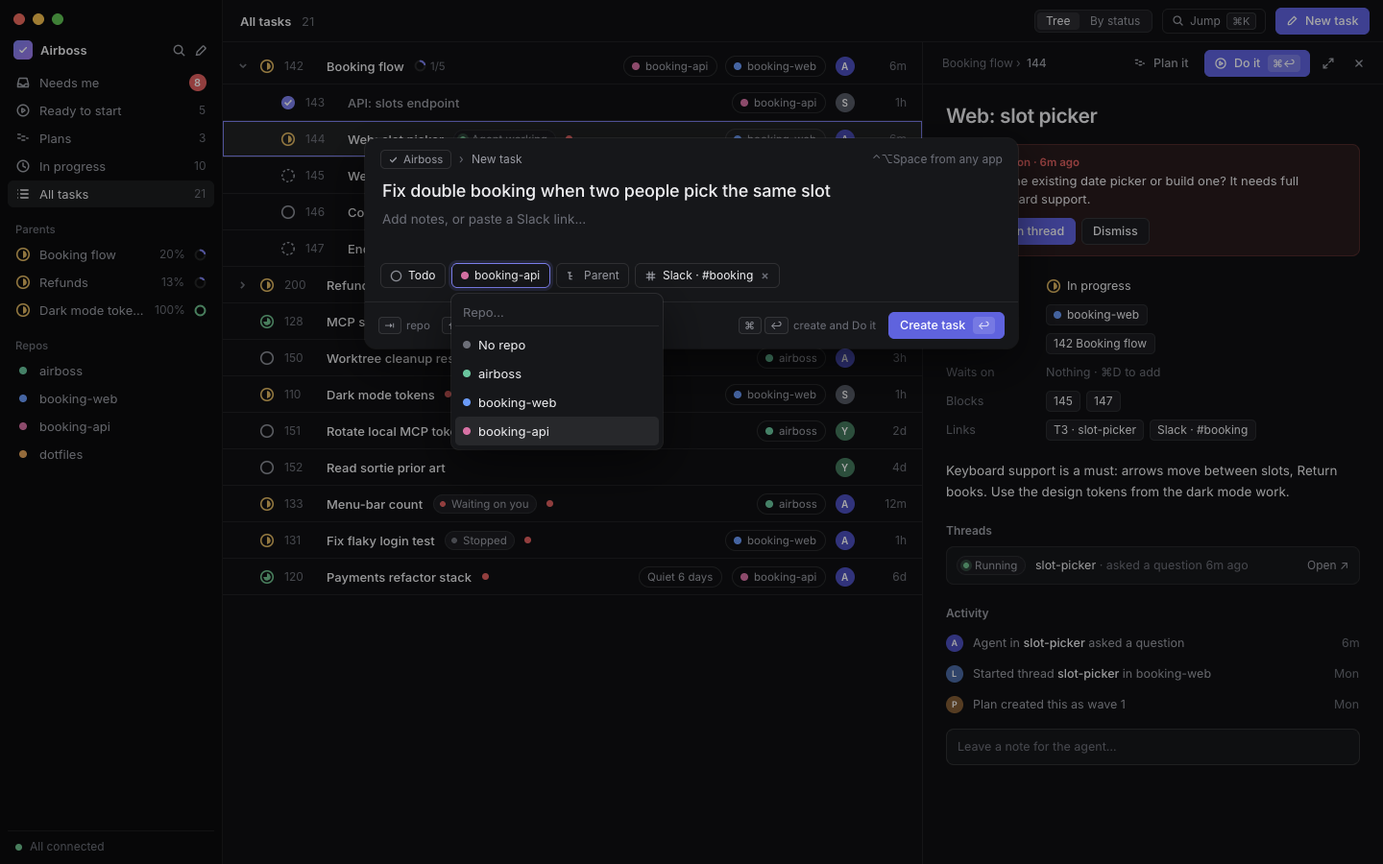
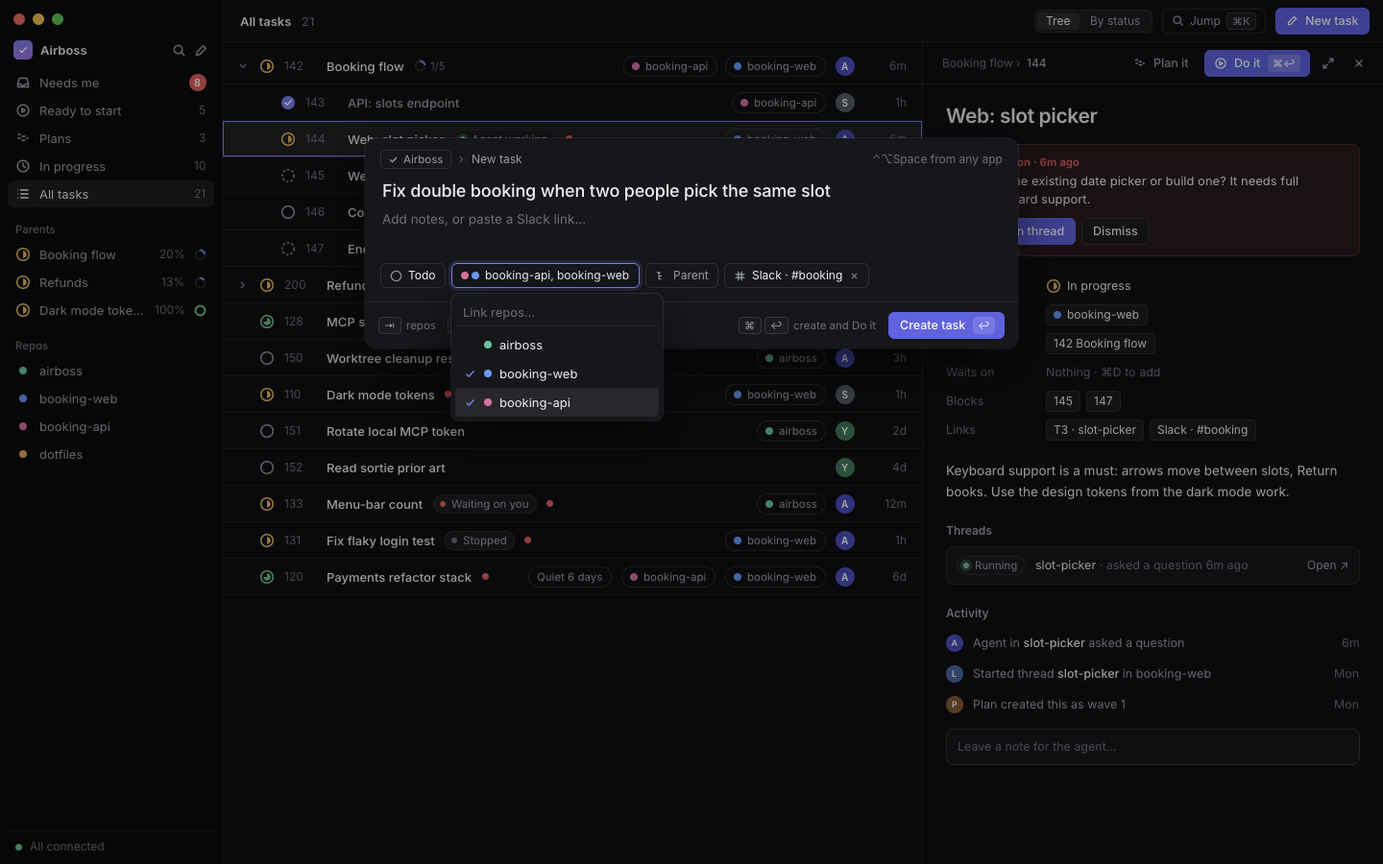
Let a task link to several repos
- Repos are a list per task, usually known up front; parents show the
  union of their subtasks' repos
- Link repos from the task details, with R, or from the right-click menu
- Do it starts one thread per linked repo; asks where to start if none
- Run-order map drops repo lanes: waves only, neutral lines, repo dots
  under each task, and lines that skip a wave route between rows
- DESIGN.md asks core for a task_repos table in place of repo_id

diff --git a/docs/design/prototype.html b/docs/design/prototype.html
@@ -137,6 +137,7 @@ kbd{font:500 11px var(--font);color:var(--text-2);background:var(--bg-input);bor
 .row .prog{font-size:11.5px;color:var(--text-3);display:flex;align-items:center;gap:4px}
 .row .sp{flex:1;min-width:8px}
 .row .meta{display:flex;align-items:center;gap:8px;color:var(--text-2);font-size:12px}
+.rtag{display:inline-flex;align-items:center;gap:5px;font-size:11.5px;color:var(--text-3);white-space:nowrap}
 .pill{display:inline-flex;align-items:center;gap:6px;height:22px;padding:0 8px;border-radius:11px;border:1px solid var(--line-2);font-size:11.5px;color:var(--text-2);white-space:nowrap}
 .pill.warn{color:var(--st-blocked);border-color:color-mix(in srgb,var(--st-blocked) 35%,transparent)}
 .pill.need{color:var(--needs);border-color:color-mix(in srgb,var(--needs) 35%,transparent);background:var(--needs-soft)}
@@ -361,16 +362,16 @@ kbd{font:500 11px var(--font);color:var(--text-2);background:var(--bg-input);bor
 /* =========================================================== data (sample) */
 const REPOS={"airboss":"var(--repo-3)","booking-web":"var(--repo-1)","booking-api":"var(--repo-2)","dotfiles":"var(--repo-4)"};
 const T={};
-function add(id,title,status,parent,repo,x={}){T[id]=Object.assign({id,title,status,parent,repo,notes:"",links:[],waits:[],open:false,updated:"3d",by:"me",blocked:"",branch:""},x);}
+function add(id,title,status,parent,repo,x={}){const repos=repo==null?[]:Array.isArray(repo)?repo:[repo];T[id]=Object.assign({id,title,status,parent,repos,repoBy:null,notes:"",links:[],waits:[],open:false,updated:"3d",by:"me",blocked:"",branch:""},x);}
 add(142,"Booking flow","doing",null,null,{open:true,branch:"task-142-booking-flow",notes:"Let people pick a slot and get a confirmation. Split across the API and the web app. The Slack thread has the product asks; the plan has the phases.",links:[["slack","#booking thread"],["doc","booking-flow.md"]],updated:"6m",by:"agent"});
 add(143,"API: slots endpoint","done",142,"booking-api",{links:[["pr","PR #58 · merged"]],updated:"1h",by:"sync"});
 add(144,"Web: slot picker","doing",142,"booking-web",{links:[["thread","slot-picker"]],updated:"6m",by:"agent",notes:"Keyboard support is a must: arrows move between slots, Return books."});
 add(145,"Web: confirm screen","todo",142,"booking-web",{waits:[144],updated:"2d",by:"plan"});
 add(146,"Confirmation email","todo",142,"booking-api",{waits:[143],updated:"1h",by:"sync",notes:"Send the confirmation once a slot is held. Use the existing mail queue, not a new provider. Include the .ics file and a cancel link.",links:[["slack","#booking thread"]]});
-add(147,"End-to-end tests","todo",142,"booking-web",{waits:[144,145,146],updated:"2d",by:"plan"});
+add(147,"End-to-end tests","todo",142,["booking-web","booking-api"],{waits:[144,145,146],updated:"2d",by:"plan"});
 add(200,"Refunds","doing",null,null,{branch:"task-200-refunds",updated:"20m",by:"agent",notes:"Refunds from the booking page, end to end."});
 add(201,"Schema: refunds table","done",200,"booking-api",{updated:"1d",by:"sync"});
-add(202,"Refund service","doing",200,"booking-api",{waits:[201],links:[["thread","refund-service"]],updated:"20m",by:"agent"});
+add(202,"Refund service","doing",200,"booking-api",{repoBy:"agent",waits:[201],links:[["thread","refund-service"]],updated:"20m",by:"agent"});
 add(203,"Payment webhook","blocked",200,"booking-api",{waits:[201],blocked:"Needs test keys from the payments dashboard",updated:"5h",by:"agent"});
 add(204,"Refund button","in_review",200,"booking-web",{links:[["pr","PR #61 · checks passed"]],updated:"2h",by:"agent"});
 add(205,"Refund status page","todo",200,"booking-web",{waits:[202,204],updated:"1d",by:"plan"});
@@ -379,12 +380,12 @@ add(207,"Announce to support","todo",200,null,{waits:[205],updated:"1d",by:"plan
 add(208,"Backfill old refunds","todo",200,"booking-api",{waits:[128],updated:"1d",by:"plan"});
 add(128,"MCP server","in_review",null,"airboss",{links:[["pr","PR #31 · +412 −38"]],updated:"40m",by:"agent"});
 add(133,"Menu-bar count","doing",null,"airboss",{links:[["thread","tray-count"]],updated:"12m",by:"agent"});
-add(131,"Fix flaky login test","doing",null,"booking-web",{links:[["thread","fix-flaky-login"]],updated:"1h",by:"agent"});
-add(120,"Payments refactor stack","in_review",null,"booking-api",{updated:"6d",by:"agent",links:[["pr","10 open PRs"]]});
+add(131,"Fix flaky login test","doing",null,"booking-web",{repoBy:"agent",links:[["thread","fix-flaky-login"]],updated:"1h",by:"agent"});
+add(120,"Payments refactor stack","in_review",null,["booking-api","booking-web"],{updated:"6d",by:"agent",links:[["pr","10 open PRs"]]});
 add(150,"Worktree cleanup research","todo",null,"airboss",{updated:"3h",by:"agent"});
 add(110,"Dark mode tokens","doing",null,"booking-web",{updated:"1h",by:"sync"});
 add(111,"Colour tokens","done",110,"booking-web");add(112,"Swap hard-coded colours","done",110,"booking-web");add(113,"Dark screenshots","done",110,"booking-web");add(114,"Contrast check","done",110,"booking-web");
-add(151,"Rotate local MCP token","todo",null,"airboss",{updated:"2d"});
+add(151,"Rotate local MCP token","todo",null,["airboss","dotfiles"],{updated:"2d"});
 add(152,"Read sortie prior art","todo",null,null,{updated:"4d"});
 add(98,"New laptop setup","done",null,"dotfiles",{updated:"2w"});
 const LIVE={144:["run","slot-picker","Agent working · asked a question 6m ago"],202:["run","refund-service","Agent working · 20m"],133:["wait","tray-count","Waiting for your approval"],131:["stop","fix-flaky-login","Stopped · 3 tests failed"],128:["stop","mcp-server","Finished · PR #31 open"]};
@@ -449,6 +450,9 @@ const ic=(n,s=16)=>`<svg class="i" viewBox="0 0 16 16" style="width:${s}px;heigh
 const rdot=r=>r?`<span class="rdot" style="--c:${REPOS[r]}"></span>`:"";
 const av=w=>`<span class="av av-${w}" title="${w}">${{agent:"A",me:"Y",sync:"S",plan:"P",launch:"L"}[w]||"?"}</span>`;
 const needsFor=id=>NEEDS.filter(n=>n.task===id);
+/* repos are optional tags: a task's own, or for a parent the union of its subtasks' */
+function reposOf(t){ if(t.repos.length) return t.repos; const u=new Set(); const walk=p=>kids(p).forEach(k=>{T[k].repos.forEach(r=>u.add(r)); walk(k);}); walk(t.id); return [...u]; }
+const rdots=rs=>rs.map(r=>rdot(r)).join("");
 /* progress: share of leaf subtasks (any depth) that are done; dropped ones don't count */
 function progress(id){
   const c={done:0,in_review:0,doing:0,blocked:0,todo:0,total:0};
@@ -499,7 +503,7 @@ function renderSide(){
 function filterFn(){
   if(filter==="ready") return t=>t.status==="todo"&&!waitingOn(t).length&&!kids(t.id).length;
   if(filter==="prog") return t=>t.status==="doing"||t.status==="in_review";
-  if(filter.startsWith("r:")) {const r=filter.slice(2); return t=>t.repo===r;}
+  if(filter.startsWith("r:")) {const r=filter.slice(2); return t=>reposOf(t).includes(r);}
   return null;
 }
 function rows(){
@@ -522,8 +526,8 @@ function rowHtml(id,d){
   if(t.status==="blocked") meta+=`<span class="pill warn">Blocked</span>`;
   if(g==="waiting") meta+=`<span class="pill" title="waits on ${w.join(", ")}">${ic("dep",12)}<span class="long">waits on ${w.join(", ")}</span><span class="short">${w.length}</span></span>`;
   if(t.status==="todo"&&!w.length&&!k.length&&needsFor(id).some(n=>n.kind==="play")) meta+=`<span class="pill ok">Ready</span>`;
-  const repos=t.repo?[t.repo]:[...new Set(k.map(c=>T[c].repo).filter(Boolean))];
-  meta+=repos.map(r=>`<span class="pill rn">${rdot(r)}${r}</span>`).join("");
+  const repos=reposOf(t);
+  meta+=repos.slice(0,2).map(r=>`<span class="pill rn">${rdot(r)}${r}</span>`).join("")+(repos.length>2?`<span class="pill rn">+${repos.length-2}</span>`:"");
   const lv=LIVE[id]; const live=lv&&isOpen(t.status)?`<span class="live l-${lv[0]}" title="${esc(lv[2])}"><i></i><span class="lt">${{run:"Agent working",wait:"Waiting on you",stop:"Stopped"}[lv[0]]}</span></span>`:"";
   return `<div class="${cls.join(" ")}" data-id="${id}" style="--d:${d}">${k.length?`<span class="disc" data-disc="${id}"><svg viewBox="0 0 12 12" class="i">${I.chev}</svg></span>`:'<span class="disc"></span>'}<span class="stbtn" data-stp="${id}" title="Change status (S)">${st(g)}</span><span class="id">${id}</span>${title}${prog}${live}${needsFor(id).length?'<span class="dot" title="Needs you"></span>':""}<span class="sp"></span><span class="meta">${meta}</span>${repos.map(r=>`<span class="rd" title="${r}">${rdot(r)}</span>`).join("")}${av(t.by)}<span class="when">${t.updated}</span></div>`;
 }
@@ -557,12 +561,12 @@ function wireList(){
 
 /* =========================================================== peek + page */
 function propsHtml(t){
-  const k=kids(t.id), repos=t.repo?[t.repo]:[...new Set(k.map(c=>T[c].repo).filter(Boolean))];
+  const k=kids(t.id), repos=reposOf(t);
   const blocks=Object.values(T).filter(x=>x.waits.includes(t.id));
   return `<div class="props">
   <div class="l">Status</div><div class="v" data-stv="${t.id}" style="cursor:pointer">${st(gk(t))}${LABEL[gk(t)]}${t.status==="blocked"?`<span class="faint">· ${esc(t.blocked)}</span>`:""}</div>
   ${k.length?(()=>{const c=progress(t.id);return `<div class="l">Progress</div><div class="v" style="gap:10px">${bar(c)}<span style="white-space:nowrap;font-variant-numeric:tabular-nums">${c.pct}% <span class="faint">· ${c.done} of ${c.total}</span></span></div>`;})():""}
-  <div class="l">Repo</div><div class="v">${repos.length?repos.map(r=>`<span class="tag">${rdot(r)}${r}</span>`).join(""):'<span class="faint">None</span>'}</div>
+  <div class="l">Repos</div><div class="v">${repos.map(r=>`<span class="tag">${rdot(r)}${r}</span>`).join("")}${!t.repos.length&&k.length&&repos.length?'<span class="faint">· from subtasks</span>':""}<span class="tag link" data-linkrepo="${t.id}" style="color:var(--text-2)">${ic("link",12)}${repos.length?"Link repo":"Link a repo"}</span></div>
   ${t.branch?`<div class="l">Branch</div><div class="v"><span class="tag mono">${ic("branch",12)}${t.branch}</span></div>`:""}
   ${t.parent!=null?`<div class="l">Parent</div><div class="v"><span class="tag link" data-go="${t.parent}">${st(gk(T[t.parent]))}${t.parent} ${esc(T[t.parent].title)}</span></div>`:""}
   <div class="l">Waits on</div><div class="v">${t.waits.length?t.waits.map(w=>`<span class="tag link" data-go="${w}">${st(gk(T[w]))}${w}</span>`).join(""):'<span class="faint">Nothing · ⌘D to add</span>'}</div>
@@ -581,7 +585,7 @@ function subtasksHtml(t,wide){
   const done=k.filter(c=>T[c].status==="done").length;
   let inner;
   if(roMode==="map" && wide) inner=runMap(t.id, wide);
-  else inner=Array.from({length:W.count},(_,i)=>{const ids=W.ids.filter(id=>W.wave[id]===i); return `<div class="wv"><div class="wv-h">Wave ${i+1}${i===0?" · can start now":""}<span>${ids.length>1?"· in parallel":""}</span></div>${ids.map(id=>{const s=T[id],w=waitingOn(s),o=W.outside(id);return `<div class="sub${gk(s)==="waiting"?" wait":""}" data-go="${id}">${st(gk(s))}<span class="num" style="width:30px">${id}</span><span class="t">${esc(s.title)}</span>${s.status==="blocked"?'<span class="pill warn">Blocked</span>':""}${w.length?`<span class="pill">${ic("dep",12)}${o.length?"outside: ":""}${w.join(", ")}</span>`:""}${s.status==="todo"&&!w.length?'<span class="pill ok">Ready</span>':""}${rdot(s.repo)}</div>`;}).join("")}</div>`;}).join("");
+  else inner=Array.from({length:W.count},(_,i)=>{const ids=W.ids.filter(id=>W.wave[id]===i); return `<div class="wv"><div class="wv-h">Wave ${i+1}${i===0?" · can start now":""}<span>${ids.length>1?"· in parallel":""}</span></div>${ids.map(id=>{const s=T[id],w=waitingOn(s),o=W.outside(id);return `<div class="sub${gk(s)==="waiting"?" wait":""}" data-go="${id}">${st(gk(s))}<span class="num" style="width:30px">${id}</span><span class="t">${esc(s.title)}</span>${s.status==="blocked"?'<span class="pill warn">Blocked</span>':""}${w.length?`<span class="pill">${ic("dep",12)}${o.length?"outside: ":""}${w.join(", ")}</span>`:""}${s.status==="todo"&&!w.length?'<span class="pill ok">Ready</span>':""}${rdots(s.repos)}</div>`;}).join("")}</div>`;}).join("");
   const c=progress(t.id);
   const big=`<div class="pbig"><span class="pct">${c.pct}%</span>${bar(c)}<span class="faint" style="white-space:nowrap">${c.done} of ${c.total} done</span></div><div class="legend">${SEG.map(([k,col,l])=>c[k]?`<span><i style="background:${col}"></i>${l} ${c[k]}</span>`:"").join("")}${c.todo?`<span><i style="background:var(--bg-input);box-shadow:inset 0 0 0 1px var(--line-2)"></i>Todo ${c.todo}</span>`:""}</div>`;
   return `<div class="sec"><div class="sec-h">Subtasks <span class="faint" style="font-weight:500">${W.count} waves</span><span class="sp"></span>${wide?tg:""}</div>${big}${inner}<div class="faint" style="font-size:12px;margin-top:6px">Nothing starts by itself. Select a ready task and press ⌘↩.</div></div>`;
@@ -610,6 +614,7 @@ function peekHtml(id){
 function wireDetail(root){
   root.querySelectorAll("[data-go]").forEach(e=>e.onclick=ev=>{ev.stopPropagation(); const id=+e.dataset.go; page?openPage(id):selectTask(id,true);});
   root.querySelectorAll("[data-stv]").forEach(e=>e.onclick=ev=>{ev.stopPropagation(); const b=e.getBoundingClientRect(); statusMenu(b.left,b.bottom+4,+e.dataset.stv);});
+  root.querySelectorAll("[data-linkrepo]").forEach(e=>e.onclick=ev=>{ev.stopPropagation(); const b=e.getBoundingClientRect(); repoMenu(b.left,b.bottom+4,+e.dataset.linkrepo);});
   root.querySelectorAll("[data-link]").forEach(e=>e.onclick=()=>toast("Opens "+e.dataset.link));
   root.querySelectorAll("[data-act]").forEach(b=>b.onclick=ev=>{ev.stopPropagation(); act(b.dataset.act, NEEDS.find(n=>n.id===b.dataset.n), b.dataset.k);});
   root.querySelectorAll("[data-a]").forEach(b=>b.onclick=()=>{const a=b.dataset.a; if(a==="do") doIt(sel); if(a==="plan") planIt(sel); if(a==="expand") openPage(sel); if(a==="close"){peek=false;renderAll();} if(a==="back") closePage();});
@@ -635,27 +640,25 @@ function waves(pid){
 }
 function runMap(pid){
   const {ids,wave,count,outside}=waves(pid);
-  const lanes=[...new Set(ids.map(id=>T[id].repo||"none"))];
-  const avail=Math.min(780,($("#main").clientWidth||1000)-280-84); const W=Math.max(460,avail), LW=Math.min(110,W*0.16), CW=(W-LW)/count;
-  const slot={},used={}; ids.forEach(id=>{const k=(T[id].repo||"none")+"|"+wave[id]; slot[id]=used[k]=(used[k]??-1)+1;});
-  const ls=l=>Math.max(1,...ids.filter(id=>(T[id].repo||"none")===l).map(id=>slot[id]+1));
-  const tops=[];let y=28; lanes.forEach((l,i)=>{tops[i]=y;y+=ls(l)*58+24;}); const H=y;
-  const pos=id=>[LW+wave[id]*CW+14, tops[lanes.indexOf(T[id].repo||"none")]+20+slot[id]*58];
-  const col=id=>T[id].repo?REPOS[T[id].repo]:"var(--text-3)";
-  let svg=""; for(let i=1;i<count;i++){const x=LW+i*CW; svg+=`<line x1="${x}" y1="0" x2="${x}" y2="${H}" stroke="var(--line)"/>`;}
+  const W=Math.max(460,Math.min(780,($("#main").clientWidth||1000)-280-84)), CW=W/count, RH=80;
+  const slot={},used={}; ids.forEach(id=>{slot[id]=used[wave[id]]=(used[wave[id]]??-1)+1;});
+  const rows=Math.max(...Object.values(used))+1, H=30+rows*RH+6;
+  const pos=id=>[wave[id]*CW+14, 40+slot[id]*RH];
+  let svg=""; for(let i=1;i<count;i++){const x=i*CW; svg+=`<line x1="${x}" y1="0" x2="${x}" y2="${H}" stroke="var(--line)"/>`;}
   ids.forEach(id=>{const [bx,by]=pos(id);
     T[id].waits.filter(w=>ids.includes(w)).forEach(w=>{const [ax,ay]=pos(w),dn=!isOpen(T[w].status),a2=ax+9;
-      const d=ay===by?`M${a2} ${ay} H${bx-9}`:`M${a2} ${ay} H${bx-44} C${bx-22} ${ay} ${bx-28} ${by} ${bx-9} ${by}`;
-      svg+=`<path data-f="${w}" data-t="${id}" d="${d}" fill="none" stroke="${col(w)}" stroke-width="1.75" stroke-linecap="round" ${dn?"":'stroke-dasharray="2 5"'}/>`;});
-    outside(id).forEach(o=>{svg+=`<path data-f="${o}" data-t="${id}" d="M${bx-60} ${by} H${bx-9}" fill="none" stroke="var(--text-3)" stroke-width="1.75" stroke-linecap="round" stroke-dasharray="2 5"/>`;});
+      const skip=wave[id]-wave[w]>1, ch=Math.max(ay,by)+62;
+      const d=skip?`M${a2} ${ay} H${ax+CW-46} C${ax+CW-24} ${ay} ${ax+CW-30} ${ch} ${ax+CW-8} ${ch} H${bx-46} C${bx-24} ${ch} ${bx-30} ${by} ${bx-9} ${by}`
+        :ay===by?`M${a2} ${ay} H${bx-9}`:`M${a2} ${ay} H${bx-44} C${bx-22} ${ay} ${bx-28} ${by} ${bx-9} ${by}`;
+      svg+=`<path data-f="${w}" data-t="${id}" d="${d}" fill="none" stroke="${dn?"var(--text-3)":"var(--text-2)"}" stroke-width="1.75" stroke-linecap="round" ${dn?"":'stroke-dasharray="2 5"'}/>`;});
+    outside(id).forEach(o=>{svg+=`<path data-f="${o}" data-t="${id}" d="M${bx-52} ${by} H${bx-9}" fill="none" stroke="var(--text-3)" stroke-width="1.75" stroke-linecap="round" stroke-dasharray="2 5"/>`;});
   });
-  const heads=Array.from({length:count},(_,i)=>`<div class="ro-colh" style="left:${LW+i*CW+6}px">Wave ${i+1}</div>`).join("");
-  const lab=lanes.map((l,i)=>`<div class="lane" style="top:${tops[i]+11}px">${l==="none"?'<span class="rdot" style="--c:var(--text-3)"></span>No repo':rdot(l)+l}</div>`).join("");
+  const heads=Array.from({length:count},(_,i)=>`<div class="ro-colh" style="left:${i*CW+6}px">Wave ${i+1}</div>`).join("");
   const stops=ids.map(id=>{const t=T[id],[x,yy]=pos(id),g=gk(t),w=waitingOn(t),o=outside(id);
     let sub=g==="waiting"?`waits on ${w.join(", ")}`:LABEL[t.status].toLowerCase(); if(o.length) sub=`waits outside: ${o.join(", ")}`;
     if(t.status==="blocked") sub=`<span style="color:var(--st-blocked)">blocked</span>`; if(t.status==="todo"&&!w.length) sub=`<span style="color:var(--st-review)">ready</span>`;
-    return `<div class="ro-st" data-st="${id}" style="left:${x-8}px;top:${yy-8}px">${st(g)}</div><div class="stop${g==="waiting"?" wait":""}${roFocus===id?" sel":""}" data-st="${id}" style="left:${x-8}px;top:${yy+11}px;width:${CW-14}px"><b>${esc(t.title)}</b><small>${id} · ${sub}</small></div>`;}).join("");
-  return `<div class="ro" id="ro" style="width:${W}px;height:${H}px">${heads}<svg width="${W}" height="${H}">${svg}</svg>${lab}${stops}</div><div class="faint" style="display:flex;gap:16px;font-size:11.5px;margin-top:4px"><span>— done, can follow</span><span>┄ still waiting</span><span>Hover a task to trace its lines · double-click to open</span></div>`;
+    return `<div class="ro-st" data-st="${id}" style="left:${x-8}px;top:${yy-8}px">${st(g)}</div><div class="stop${g==="waiting"?" wait":""}${roFocus===id?" sel":""}" data-st="${id}" style="left:${x-8}px;top:${yy+11}px;width:${CW-14}px"><b>${esc(t.title)}</b><small>${id} · ${sub}${t.repos.length?" · "+rdots(t.repos):""}</small></div>`;}).join("");
+  return `<div class="ro" id="ro" style="width:${W}px;height:${H}px">${heads}<svg width="${W}" height="${H}">${svg}</svg>${stops}</div><div class="faint" style="display:flex;gap:16px;font-size:11.5px;margin-top:4px"><span>— done, can follow</span><span>┄ still waiting</span><span>Hover a task to trace its lines · double-click to open</span></div>`;
 }
 function wireMap(root){
   const ro=root.querySelector("#ro"); if(!ro) return;
@@ -694,11 +697,11 @@ function act(a,n,k){
     case "keep": removeNeed(n,"Kept open"); break;
     case "snooze": removeNeed(n,"Snoozed until Sat 28 Nov"); break;
     case "goto": openPage(n.task); break;
-    case "acceptall": n.proposed.forEach(p=>addTask(p,n.task,t.repo,"agent")); t.open=true; removeNeed(n,`Added ${n.proposed.length} subtasks to ${n.task}`); break;
+    case "acceptall": n.proposed.forEach(p=>addTask(p,n.task,null,"agent")); t.open=true; removeNeed(n,`Added ${n.proposed.length} subtasks to ${n.task}`); break;
     case "rejectall": removeNeed(n,"Rejected all 3"); break;
     default: { let title=n.proposed[+k];
       if(a==="edit1"){const v=prompt("Edit the subtask; it's accepted when you save",title); if(v==null) return; title=v.trim()||title;}
-      if(a!=="rej1"){const id=addTask(title,n.task,t.repo,"agent"); t.open=true; toast(`Added ${id} under ${n.task}`);} else toast("Rejected");
+      if(a!=="rej1"){const id=addTask(title,n.task,null,"agent"); t.open=true; toast(`Added ${id} under ${n.task}`);} else toast("Rejected");
       n.proposed.splice(+k,1); if(!n.proposed.length) removeNeed(n); else renderAll(); }
   }
 }
@@ -713,7 +716,7 @@ function renderPlans(){
     const ready=W.ids.filter(x=>T[x].status==="todo"&&!waitingOn(T[x]).length);
     const blocked=W.ids.filter(x=>T[x].status==="blocked");
     const running=W.ids.filter(x=>LIVE[x]&&LIVE[x][0]==="run");
-    const repos=[...new Set(W.ids.map(x=>T[x].repo).filter(Boolean))];
+    const repos=reposOf(t);
     return `<div class="plan${i===planSel?" sel":""}" data-plan="${id}" data-pi="${i}">
       <h3>${st(gk(t))}${esc(t.title)}<span class="num" style="margin-left:auto">${id}</span></h3>
       <div style="display:flex;align-items:baseline;gap:10px;margin:12px 0 8px"><span class="pct">${c.pct}%</span><span class="faint">${c.done} of ${c.total} done</span><span style="margin-left:auto">${ring(c.pct,22)}</span></div>
@@ -742,6 +745,10 @@ function menuAt(x,y,items){
   m._key=e=>{ if(e.key==="Escape"){closeCtx();return true;} if(e.key==="ArrowDown"||e.key==="ArrowUp"){hl=(hl+(e.key==="ArrowDown"?1:-1)+opts.length)%opts.length; opts.forEach((o,i)=>o.classList.toggle("hl",i===hl)); return true;} if(e.key==="Enter"&&hl>=0){opts[hl].click(); return true;} const n=+e.key; if(n>=1&&n<=opts.length&&m.dataset.num){opts[n-1].click(); return true;} return false; };
   return m;
 }
+function repoMenu(x,y,id){
+  const t=T[id];
+  menuAt(x,y,Object.keys(REPOS).map(r=>({icon:`<span style="width:14px;display:inline-flex;color:var(--accent)">${t.repos.includes(r)?ic("check",13):""}</span>${rdot(r)}`,label:r,run:()=>{t.repos=t.repos.includes(r)?t.repos.filter(x=>x!==r):[...t.repos,r]; t.by="me"; t.updated="now"; renderAll(); toast(t.repos.includes(r)?`Linked ${r} to ${id}`:`Unlinked ${r} from ${id}`); const el=document.querySelector(`[data-linkrepo="${id}"]`); if(el){const b=el.getBoundingClientRect(); repoMenu(b.left,b.bottom+4,id);}}})));
+}
 function statusMenu(x,y,id){
   const list=["todo","doing","in_review","blocked","done","dropped"];
   const m=menuAt(x,y,list.map((s,i)=>({icon:st(s),label:LABEL[s],k:String(i+1),run:()=>setStatus(id,s)})));
@@ -763,6 +770,7 @@ function ctxMenu(x,y,id){
     {icon:ic("check",14),label:T[id].status==="done"?"Mark not done":"Mark done",k:"Space",run:()=>toggleDone(id)},
     {icon:ic("edit",14),label:"Rename",k:"↩",run:()=>{renaming=id;renderAll();}},
     {icon:ic("dep",14),label:"Add waits-on…",k:"⌘D",run:()=>toast("Pick the task it waits on")},
+    {icon:ic("repo",14),label:"Link repos…",k:"R",run:()=>{const r=document.querySelector(`.row[data-id="${id}"]`)?.getBoundingClientRect()||{left:400,bottom:200}; repoMenu(r.left+60,r.bottom,id);}},
     {icon:ic("expand",14),label:"Open page",k:"⌘↓",run:()=>openPage(id)},
     {icon:ic("link",14),label:"Copy task number",k:"⇧⌘C",run:()=>toast(`Copied ${id}`)},"-",
     {icon:ic("x",14),label:"Drop",k:"⌘⌫",danger:true,run:()=>setStatus(id,"dropped")},
@@ -777,12 +785,20 @@ function openList(f){view="list";filter=f||"all";page=false;kbFocus="list";if(se
 function selectTask(id,reveal){ if(reveal){ancestors(id).forEach(a=>T[a].open=true); if(view!=="list"||!rows().some(r=>r[0]===id)){view="list";filter="all";}} sel=id; peek=true; roFocus=null; renderAll(); }
 function openPage(id){ancestors(id).forEach(a=>T[a].open=true); if(view!=="list"){view="list";filter="all";} sel=id; page=true; roFocus=null; renderAll(); }
 function closePage(){page=false; renderAll();}
+let doItRepo=null;
 function doIt(id,fromNeeds){
   const tid=roFocus||id; if(!tid){toast("Select a task first");return;} const t=T[tid];
   if(t.status==="done"){toast(`${tid} is already done`);return;}
   const w=waitingOn(t); if(w.length){toast(`${tid} still waits on ${w.join(", ")}`);return;}
   const k=kids(tid).filter(c=>isOpen(T[c].status));
-  if(k.length){const r=[...new Set(k.map(c=>T[c].repo).filter(Boolean))]; toast(`Starting ${r.length} threads, one per repo, on <span class="mono">${t.branch||"task-"+tid}</span>`);} else toast(`Starting a T3 thread for <b>${tid}</b>${t.repo?" in "+t.repo:""}`);
+  const rs=reposOf(t);
+  if(!rs.length&&!doItRepo){ const b=document.querySelector('[data-a="do"]')?.getBoundingClientRect()||{left:innerWidth/2,bottom:120};
+    menuAt(b.left-120,b.bottom+6,[...Object.keys(REPOS).map(r=>({icon:rdot(r),label:"Start in "+r,run:()=>{doItRepo=r; t.repos=[r]; doIt(tid);}})),"-",{icon:ic("search",14),label:"No repo: research only",k:"",run:()=>{doItRepo="agent"; doIt(tid);}}]);
+    return; }
+  if(doItRepo==="agent") toast(`Starting a research thread for <b>${tid}</b> with no repo.`);
+  else if(rs.length>1) toast(`Starting ${rs.length} threads, one per repo, on <span class="mono">${t.branch||"task-"+tid}</span>`);
+  else toast(`Starting a T3 thread for <b>${tid}</b> in ${rs[0]}`);
+  doItRepo=null;
   t.status="doing"; t.by="launch"; t.updated="now"; if(!t.links.some(l=>l[0]==="thread")) t.links.push(["thread","task-"+tid]);
   NEEDS=NEEDS.filter(n=>!(n.kind==="play"&&n.task===tid)); renderAll();
 }
@@ -799,20 +815,20 @@ function addTask(title,parent,repo,by="me",x={}){const id=nextId++; add(id,title
 
 /* =========================================================== quick add (new task modal) */
 let qa=null;
-function openQA(){ qa={title:"",desc:"",slack:null,repo:null,parent:(view==="list"&&sel&&!page)?null:null,dd:null,hl:0,q:""}; $("#qaS").classList.add("open"); renderQA(); $("#qaT").focus(); }
+function openQA(){ qa={title:"",desc:"",slack:null,repos:[],parent:(view==="list"&&sel&&!page)?null:null,dd:null,hl:0,q:""}; $("#qaS").classList.add("open"); renderQA(); $("#qaT").focus(); }
 function closeQA(){$("#qaS").classList.remove("open"); qa=null;}
 function renderQA(){
-  const ddHtml=(kind)=>{ if(qa.dd!==kind) return ""; const opts=kind==="repo"?["No repo",...Object.keys(REPOS)]:["Top level",...ORDER[null].filter(id=>isOpen(T[id].status)).map(String)];
+  const ddHtml=(kind)=>{ if(qa.dd!==kind) return ""; const opts=kind==="repo"?Object.keys(REPOS):["Top level",...ORDER[null].filter(id=>isOpen(T[id].status)).map(String)];
     const f=opts.filter(o=>(kind==="parent"&&o!=="Top level"?o+" "+T[+o].title:o).toLowerCase().includes(qa.q.toLowerCase())); qa.opts=f; qa.hl=Math.min(qa.hl,Math.max(0,f.length-1));
-    return `<div class="dd"><input id="ddIn" value="${esc(qa.q)}" placeholder="${kind==="repo"?"Repo…":"Parent…"}">${f.map((o,i)=>`<div class="o${i===qa.hl?" hl":""}" data-o="${esc(o)}">${kind==="repo"?(o==="No repo"?'<span class="rdot" style="--c:var(--text-3)"></span>':rdot(o)):(o==="Top level"?ic("list",13):st(gk(T[+o])))}${kind==="parent"&&o!=="Top level"?o+" "+esc(T[+o].title):o}</div>`).join("")}</div>`; };
+    return `<div class="dd"><input id="ddIn" value="${esc(qa.q)}" placeholder="${kind==="repo"?"Link repos…":"Parent…"}">${f.map((o,i)=>`<div class="o${i===qa.hl?" hl":""}" data-o="${esc(o)}">${kind==="repo"?`<span style="width:14px;display:inline-flex;color:var(--accent)">${qa.repos.includes(o)?ic("check",13):""}</span>${rdot(o)}`:(o==="Top level"?ic("list",13):st(gk(T[+o])))}${kind==="parent"&&o!=="Top level"?o+" "+esc(T[+o].title):o}</div>`).join("")}</div>`; };
   $("#qa").innerHTML=`<div class="top"><span class="tag" style="height:20px">${ic("check",11)}Airboss</span>›<span>New task</span><span style="flex:1"></span><span>⌃⌥Space from any app</span></div>
   <input class="ttl" id="qaT" placeholder="Task title" value="${esc(qa.title)}" autocomplete="off" spellcheck="false">
   <textarea class="desc" id="qaD" placeholder="Add notes, or paste a Slack link…">${esc(qa.desc)}</textarea>
   <div class="pills"><span class="pp set">${st("todo")}Todo</span>
-   <span class="pp${qa.repo?" set":""}${qa.dd==="repo"?" focus":""}" id="ppRepo">${qa.repo?rdot(qa.repo):ic("repo",13)}${qa.repo||"Repo"}${ddHtml("repo")}</span>
+   <span class="pp${qa.repos.length?" set":""}${qa.dd==="repo"?" focus":""}" id="ppRepo">${qa.repos.length?rdots(qa.repos):ic("repo",13)}${qa.repos.length?qa.repos.join(", "):"Repos"}${ddHtml("repo")}</span>
    <span class="pp${qa.parent?" set":""}${qa.dd==="parent"?" focus":""}" id="ppParent">${ic("tree",13)}${qa.parent?qa.parent+" "+esc(T[qa.parent].title):"Parent"}${ddHtml("parent")}</span>
    ${qa.slack?`<span class="pp set">${ic("slack",13)}Slack · ${esc(qa.slack)}<span id="slx" style="display:flex;color:var(--text-3)">${ic("x",11)}</span></span>`:""}</div>
-  <div class="ft"><span><kbd>⇥</kbd> repo</span><span><kbd>⇧</kbd><kbd>⇥</kbd> parent</span><span class="sp"></span><span><kbd>⌘</kbd><kbd>↩</kbd> create and Do it</span><button class="btn pri" id="qaGo">Create task <kbd>↩</kbd></button></div>`;
+  <div class="ft"><span><kbd>⇥</kbd> repos</span><span><kbd>⇧</kbd><kbd>⇥</kbd> parent</span><span class="sp"></span><span><kbd>⌘</kbd><kbd>↩</kbd> create and Do it</span><button class="btn pri" id="qaGo">Create task <kbd>↩</kbd></button></div>`;
   const tI=$("#qaT"), dI=$("#qaD");
   tI.oninput=()=>qa.title=tI.value; dI.oninput=()=>qa.desc=dI.value;
   const paste=e=>{const txt=(e.clipboardData||window.clipboardData).getData("text"); const m=txt.match(/https?:\/\/[\w.-]*slack\.com\/\S+/); if(m){e.preventDefault(); const ch=(m[0].match(/archives\/(\w+)/)||[])[1]; qa.slack=ch?"#"+ch.toLowerCase().slice(0,10):"thread"; const rest=txt.replace(m[0],"").trim(); if(rest&&!qa.title) qa.title=rest; renderQA(); $("#qaT").focus(); toast("Slack link attached. The agent reads the thread.");}};
@@ -824,7 +840,7 @@ function renderQA(){
   const sx=$("#slx"); if(sx) sx.onclick=e=>{e.stopPropagation(); qa.slack=null; renderQA();};
   const dd=$("#ddIn"); if(dd){dd.focus(); dd.setSelectionRange(dd.value.length,dd.value.length); dd.oninput=()=>{qa.q=dd.value;qa.hl=0;renderQA();}; dd.onkeydown=qaKey; document.querySelectorAll(".dd .o").forEach(o=>o.onclick=ev=>{ev.stopPropagation(); pickDD(o.dataset.o);});}
 }
-function pickDD(o){ if(qa.dd==="repo") qa.repo=o==="No repo"?null:o; else qa.parent=o==="Top level"?null:+o; if(qa.dd==="parent"&&qa.parent&&!qa.repo) qa.repo=null; qa.dd=null; renderQA(); $("#qaT").focus(); }
+function pickDD(o){ if(qa.dd==="repo"){ qa.repos=qa.repos.includes(o)?qa.repos.filter(x=>x!==o):[...qa.repos,o]; renderQA(); return; } qa.parent=o==="Top level"?null:+o; qa.dd=null; renderQA(); $("#qaT").focus(); }
 function qaKey(e){
   e.stopPropagation();
   if(e.key==="Escape"){e.preventDefault(); if(qa.dd){qa.dd=null;renderQA();$("#qaT").focus();} else closeQA(); return;}
@@ -836,7 +852,7 @@ function qaKey(e){
 function createFromQA(go){
   const title=(qa.title||"").trim(); if(!title){toast("Give the task a title"); $("#qaT").focus(); return;}
   const x={notes:qa.desc}; if(qa.slack) x.links=[["slack",qa.slack]];
-  const id=addTask(title,qa.parent,qa.repo,"me",x); const p=qa.parent; closeQA(); if(p!=null) T[p].open=true;
+  const id=addTask(title,qa.parent,qa.repos,"me",x); const p=qa.parent; closeQA(); if(p!=null) T[p].open=true;
   toast(`Created <b>${id}</b> ${esc(title)}`);
   if(view!=="list"){view="list";filter="all";}
   sel=id; peek=true; renderAll(); const r=document.querySelector(`.row[data-id="${id}"]`); if(r){r.classList.add("enter"); r.scrollIntoView({block:"nearest"});}
@@ -855,7 +871,7 @@ function renderPal(){
   const cs=CMDS.filter(c=>!q||fz(q,c[0])).slice(0,q?5:4);
   palItems=[...ts.map(x=>({task:x.t.id})),...cs.map(c=>({c}))]; palHl=Math.min(palHl,Math.max(0,palItems.length-1));
   let i=0,h="";
-  if(ts.length) h+=`<div class="grp-l">${q?"Tasks":"Jump to"}</div>`+ts.map(x=>`<div class="it${i++===palHl?" hl":""}" data-i="${i-1}">${st(gk(x.t))}<span class="num" style="width:30px">${x.t.id}</span><span class="t">${esc(x.t.title)}</span>${rdot(x.t.repo)}</div>`).join("");
+  if(ts.length) h+=`<div class="grp-l">${q?"Tasks":"Jump to"}</div>`+ts.map(x=>`<div class="it${i++===palHl?" hl":""}" data-i="${i-1}">${st(gk(x.t))}<span class="num" style="width:30px">${x.t.id}</span><span class="t">${esc(x.t.title)}</span>${rdots(reposOf(x.t))}</div>`).join("");
   if(cs.length) h+=`<div class="grp-l">Commands</div>`+cs.map(c=>`<div class="it${i++===palHl?" hl":""}" data-i="${i-1}">${ic("cmd",15)}<span class="t">${c[0]}</span>${c[1]?c[1].split(" ").map(k=>`<kbd>${k}</kbd>`).join(""):""}</div>`).join("");
   $("#palRes").innerHTML=h||`<div class="empty" style="padding:24px">No match. <kbd>↩</kbd> creates “${esc(q)}” as a new task.</div>`;
   $("#palRes").querySelectorAll("[data-i]").forEach(e=>e.onclick=()=>{palHl=+e.dataset.i; runPal();});
@@ -866,7 +882,7 @@ $("#palIn").addEventListener("keydown",e=>{e.stopPropagation(); if(e.key==="Esca
 
 /* =========================================================== shortcuts sheet + tray */
 function openSheet(){
-  const K=[["Needs me","G N"],["Ready to start","G R"],["All tasks","G A"],["Jump to task","⌘ K"],["New task","C"],["Quick add from any app","⌃ ⌥ Space"],["Do it","⌘ ↩"],["Plan it","⇧ ⌘ ↩"],["Move","↑ ↓"],["Open / fold","→ ←"],["Mark done","Space"],["Change status","S"],["Plans","G L"],["Rename","↩"],["Open full page","⌘ ↓"],["Close page / peek","Esc"],["Open thread or PR","⌘ O"],["Add waits-on","⌘ D"],["Add link","⌘ L"],["Mark blocked","⌘ B"],["Needs me: main action","↩"],["Needs me: dismiss","⌘ ⌫"],["Switch list / detail","Tab"],["This sheet","?"]];
+  const K=[["Needs me","G N"],["Ready to start","G R"],["All tasks","G A"],["Jump to task","⌘ K"],["New task","C"],["Quick add from any app","⌃ ⌥ Space"],["Do it","⌘ ↩"],["Plan it","⇧ ⌘ ↩"],["Move","↑ ↓"],["Open / fold","→ ←"],["Mark done","Space"],["Change status","S"],["Link repos","R"],["Plans","G L"],["Rename","↩"],["Open full page","⌘ ↓"],["Close page / peek","Esc"],["Open thread or PR","⌘ O"],["Add waits-on","⌘ D"],["Add link","⌘ L"],["Mark blocked","⌘ B"],["Needs me: main action","↩"],["Needs me: dismiss","⌘ ⌫"],["Switch list / detail","Tab"],["This sheet","?"]];
   $("#sheet").innerHTML=`<h2>Keyboard shortcuts</h2><div class="cols">${K.map(k=>`<div class="k"><span>${k[0]}</span><span>${k[1].split(" ").map(x=>`<kbd>${x}</kbd>`).join("")}</span></div>`).join("")}</div><div class="faint" style="font-size:12px;margin-top:12px">Every shortcut also lives in the Task and View menus. Esc closes.</div>`;
   $("#shS").classList.add("open");
 }
@@ -924,6 +940,7 @@ document.addEventListener("keydown",e=>{
   if(k==="ArrowRight"){e.preventDefault(); if(kids(sel).length){ if(!t.open){t.open=true;renderAll();} else {sel=kids(sel)[0];renderAll();} } return;}
   if(k==="ArrowLeft"){e.preventDefault(); if(t.open&&kids(sel).length){t.open=false;renderAll();} else if(t.parent!=null&&r.includes(t.parent)){sel=t.parent;renderAll();} return;}
   if(k===" "){e.preventDefault(); toggleDone(sel); return;}
+  if(k==="r"&&!m&&sel){e.preventDefault(); const r=document.querySelector(`.row[data-id="${sel}"]`)?.getBoundingClientRect(); if(r) repoMenu(r.left+60,r.bottom,sel); return;}
   if(k==="s"&&!m){e.preventDefault(); const b=document.querySelector(`.row[data-id="${sel}"] .stbtn`); if(b){const r=b.getBoundingClientRect(); statusMenu(r.left,r.bottom+4,sel);} return;}
   if(k==="Enter"){e.preventDefault(); renaming=sel; renderAll(); return;}
 });

diff --git a/docs/design/airboss.css b/docs/design/airboss.css
@@ -135,6 +135,7 @@ kbd{font:500 11px var(--font);color:var(--text-2);background:var(--bg-input);bor
 .row .prog{font-size:11.5px;color:var(--text-3);display:flex;align-items:center;gap:4px}
 .row .sp{flex:1;min-width:8px}
 .row .meta{display:flex;align-items:center;gap:8px;color:var(--text-2);font-size:12px}
+.rtag{display:inline-flex;align-items:center;gap:5px;font-size:11.5px;color:var(--text-3);white-space:nowrap}
 .pill{display:inline-flex;align-items:center;gap:6px;height:22px;padding:0 8px;border-radius:11px;border:1px solid var(--line-2);font-size:11.5px;color:var(--text-2);white-space:nowrap}
 .pill.warn{color:var(--st-blocked);border-color:color-mix(in srgb,var(--st-blocked) 35%,transparent)}
 .pill.need{color:var(--needs);border-color:color-mix(in srgb,var(--needs) 35%,transparent);background:var(--needs-soft)}

diff --git a/DESIGN.md b/DESIGN.md
@@ -296,7 +296,7 @@ A near-black, low-contrast base with one cool accent, one alarm red, a five-colo
 
 ### Tertiary (status and repos)
 - **Status set**: todo grey (st-todo), in-progress amber (st-doing), in-review green (st-review), blocked orange (st-blocked), done indigo (st-done, the same as the accent). Each status also has its own icon shape (see Components).
-- **Repo set** (repo-1 to repo-4): blue, pink, green, orange. Each repo keeps one colour everywhere: its dot in the sidebar, pills, tags, the run-order lane and the lines drawn from its tasks. Tasks with no repo use text-3 grey.
+- **Repo set** (repo-1 to repo-4): blue, pink, green, orange. Each repo keeps one colour everywhere: its dot in the sidebar, row tags, property tags and run-order stations. Repo colour never colours lines or lanes, since a task can have no repo or several.
 - **Actor set** (actor-agent, actor-me, actor-sync, actor-plan, actor-launch): fills for the 18–20px initial avatars in rows and the activity feed. They are the same in both themes.
 
 ### Neutral
@@ -403,15 +403,22 @@ Progress is done ÷ all leaf subtasks at any depth. Only leaves count, so nested
 - Rows show the ring plus "done/total"; the page shows "35% · 7 of 20 done".
 
 ### Task rows
-- 38px, fixed. Left to right: fold arrow, status icon, id (34px, tabular), title, progress ring and fraction, live chip, needs-me dot, a flexible gap, pills (Blocked, waits on, Ready, repo), actor avatar, time.
+- 38px, fixed. Left to right: fold arrow, status icon, id (34px, tabular), title, progress ring and fraction, live chip, needs-me dot, a flexible gap, pills (Blocked, waits on, Ready), repo tags, actor avatar, time.
 - Hover uses the hover wash; selection the selected wash; keyboard focus adds a 1px inset indigo outline.
 - Done rows dim their title to secondary text.
-- A parent with no repo of its own shows the repos of its subtasks.
+- Repo pills (dot plus name) show every linked repo, up to two, then "+1". A task with no repo shows none.
+- A parent with no repos of its own shows the union of its subtasks' repos.
 - Rename happens in place: the title becomes an input with an indigo border.
 
 ### Pills and tags
-- **Pill** (22px, fully rounded, hairline border, label type): Blocked (orange), Ready (green), "waits on 144, 145" (neutral, with the dependency icon), repo (with its dot).
+- **Pill** (22px, fully rounded, hairline border, label type): Blocked (orange), Ready (green), "waits on 144, 145" (neutral, with the dependency icon), repo (with its dot; one per linked repo).
 - **Tag** (22px, 5px corners, Field Grey): property values in the detail panel: repos, branch (mono), parent, waits-on and blocks (each with the other task's status icon), links.
+
+### Repos are linked, one or several
+- A task is linked to the repos it touches, usually known when it's created. One task can be linked to several (for example booking-web and booking-api). A task with no repo is rare: research, writing, a decision.
+- The detail panel shows "Repos" as tags plus a "Link repo" control that opens a checklist of repos. R on a selected row and "Link repos…" in the right-click menu open the same checklist. A parent with none of its own shows its subtasks' repos with "· from subtasks".
+- New task: "Repos" is a multi-select; ↩ or a click toggles each repo.
+- Do it: one repo starts one thread there; several start one thread per repo on a shared branch; none opens a small menu, "Start in <repo>" for each repo plus "No repo: research only".
 
 ### Live agent chips
 Shown after the title only while a thread is attached and the task is open. A 20px rounded chip with a 6px dot and a label:
@@ -430,13 +437,13 @@ In the Threads section of the detail panel the labels shorten to Running, Waitin
 
 ### Run-order map
 A parent's subtasks drawn as a map, on the full task page:
-- **Lanes** are repos (with their dot and name), plus a grey "No repo" lane. **Columns** are waves, headed "Wave 1", "Wave 2", split by hairlines.
-- **Stations** are the subtasks' 16px status icons, ringed in the surface colour so lines stop cleanly. Under each: the title (12.5px, 500) and "id · state" (11.5px). State reads "ready" in green, "blocked" in orange, "waits on 202, 204" or "waits outside: 128".
-- **Lines** run from blocker to task in the blocker's repo colour, 1.75px with round caps: solid when the blocker is done, dashed (2 on, 5 off) while waiting. A line that changes lane bends with a smooth curve just before the task.
+- **Columns** are waves, headed "Wave 1", "Wave 2", split by hairlines. Within a wave, tasks stack in sibling order, 80px apart. There are no repo lanes: repos are optional, so a station shows its repo dots in its subline instead.
+- **Stations** are the subtasks' 16px status icons, ringed in the surface colour so lines stop cleanly. Under each: the title (12.5px, 500) and "id · state" (11.5px). State reads "ready" in green, "blocked" in orange, "waits on 202, 204" or "waits outside: 128", followed by the task's repo dots if it has any.
+- **Lines** run from blocker to task, 1.75px with round caps, in neutral grey: solid (text-3) when the blocker is done, dashed (2 on, 5 off, text-2) while waiting. A line between neighbouring waves bends with a smooth curve just before the task. A line that skips a wave drops into the gap between rows, runs along it, and rises into the task, so it never crosses another station.
 - **Outside blocker:** a short grey dashed stub (about 50px) into the station, with no source drawn.
 - **Hover** a station to trace it: its lines thicken to 2.5px and all others fade to 18%. Click selects (indigo wash; ⌘↩ starts it); double-click opens it.
 - A legend under the map explains solid and dashed lines.
-- **Waves list:** the other form of the same data. "Wave 1 · can start now", "· in parallel" when a wave holds more than one task, then 32px rows with status, id, title, pills and repo dot. The detail panel always uses the Waves list; the full page has a Waves / Map switch and opens on Map.
+- **Waves list:** the other form of the same data. "Wave 1 · can start now", "· in parallel" when a wave holds more than one task, then 32px rows with status, id, title, pills and any repo dots. The detail panel always uses the Waves list; the full page has a Waves / Map switch and opens on Map.
 - **Large parents:** fall back to the Waves list. The prototype has no automatic threshold yet: the map is 460–780px wide and its columns just get narrower as waves are added, so pick the cut-off when building.
 
 ### Plans cards
@@ -450,7 +457,7 @@ Raised cards, 12px corners, hairline border; hover lifts 1px and darkens the bor
 ### Menus, Jump and quick add
 - **Menus** (status picker, right-click): raised, 9px corners, 30px items with an icon, label and a shortcut hint at the right. Arrow keys move, ↩ picks, Esc closes.
 - **Jump (⌘K):** 640px, 13% from the top. A 52px input at 15px, then tasks and commands in 38px rows with their key caps. With no match, ↩ creates the text as a new task.
-- **Quick add:** 680px. Title (18px), notes, then property pills (status, repo, parent). Tab opens repo, Shift-Tab parent. Pasting a chat link attaches it as a link and keeps the rest as the title.
+- **Quick add:** 680px. Title (18px), notes, then property pills (status, "Repos · optional" multi-select, parent). Tab opens repos, Shift-Tab parent. Pasting a chat link attaches it as a link and keeps the rest as the title.
 - **Toasts:** bottom right, raised, with an indigo spark icon; they rise 6px in and leave after 2.8s.
 - **Menu-bar dropdown:** 360px, the Needs me count and up to six items, then Open (⌘0) and Quick add (⌃⌥Space).
 
@@ -464,6 +471,7 @@ Single-letter keys only work when no field has focus. Every shortcut also lives 
 | Return | Rename the task; in Needs me, run the main action; in Plans, open |
 | Space | Mark done or not done |
 | S, then 1–6 | Change status |
+| R | Link repos (checklist) |
 | ⌘↩ | Do it (in Needs me: the main action) |
 | ⇧⌘↩ | Plan it |
 | ⌘K | Jump to a task or command |
@@ -498,7 +506,7 @@ Short and ease-out (`cubic-bezier(.2,.8,.2,1)`). Most moves take 120–200ms:
 - **Do** keep task rows at exactly 38px and truncate instead of wrapping.
 - **Do** show status by shape and colour together; never colour alone.
 - **Do** use tabular figures for every id, count, percentage and time.
-- **Do** give each repo one colour and use it for its dot, pill, lane and lines.
+- **Do** give each repo one colour and use it for its dots and tags. **Don't** colour lines or lanes by repo.
 - **Do** show the shortcut on the primary button of a view, and list every shortcut in the Task and View menus.
 - **Do** describe connection problems in plain words, with details in the popover.
 - **Do** scope every component's class names. The prototype had real bugs from shared global names (`.plan`, `.stop`, `.empty`); in Svelte, keep styles in the component and avoid bare global classes.
@@ -517,6 +525,7 @@ Short and ease-out (`cubic-bezier(.2,.8,.2,1)`). Most moves take 120–200ms:
 
 Things the design shows that SPEC-core.md doesn't store or expose yet. Owner in brackets.
 
+- **Several repos per task** [core]: `tasks.repo_id` holds one repo or none, but a task can be linked to several repos (a `task_repos` table, with an event when a repo is linked or unlinked), and a parent's view is the union of its subtasks'. `launch` then starts one thread per linked repo on a shared branch.
 - **A stable colour per repo** [app settings, or a column on `repos`]: `repos` stores name, path and a project id only, and the design gives each repo one colour everywhere.
 - **Dismiss and snooze state for Needs me items, with an until-time** [attention]: core has no Needs me items at all; Dismiss and "Snooze 3 days" need to survive a restart.
 - **History for a task and its subtasks together** [core]: the API has only `history(id)`, but a parent's activity feed shows its subtasks' events ("143 moved to Done").

diff --git a/PRODUCT.md b/PRODUCT.md
@@ -32,6 +32,7 @@ To-do apps and trackers don't know agent threads exist. T3 knows threads but not
 ## Capabilities and Constraints
 
 - Task tree of any depth. Statuses: proposed, todo, doing, in_review, blocked, done, dropped. "Waiting" (on other tasks) is worked out, not stored. A parent's subtasks have a run order in waves.
+- A task is linked to the repos it touches, usually known up front, and can be linked to several. Do it starts one thread per linked repo on a shared branch. A task with no repo (research, writing) is rare.
 - Each task has notes, links (T3 threads, Claude sessions, PRs, Slack, docs, GitHub issues), dependencies and a full history with actors (me, an agent, sync, plan, launch).
 - Agents only propose subtasks; the user accepts, edits or rejects them. Code is done only when its PR merges.
 - Needs me: agent questions and approvals, PRs to review, failed runs, proposed subtasks, tasks that just became ready, parents whose subtasks are all done, work quiet 5+ days.
